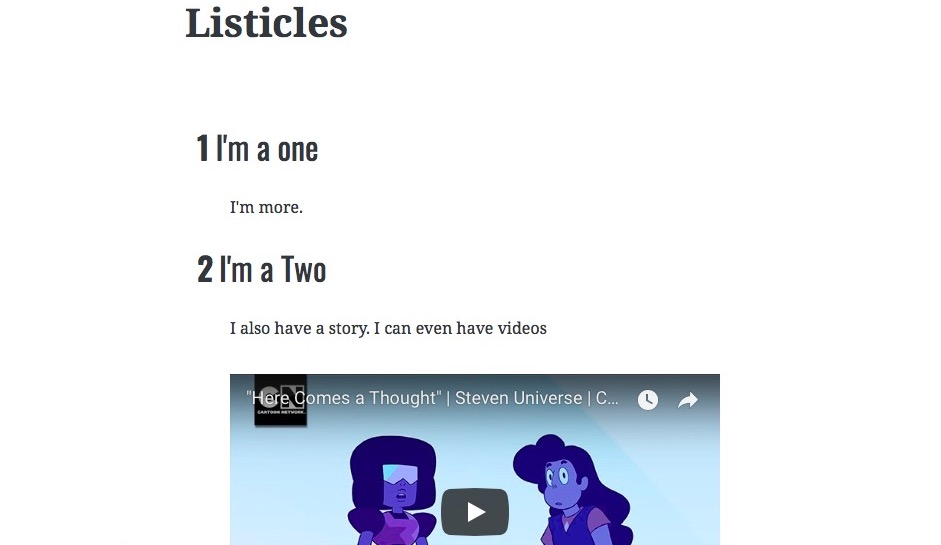
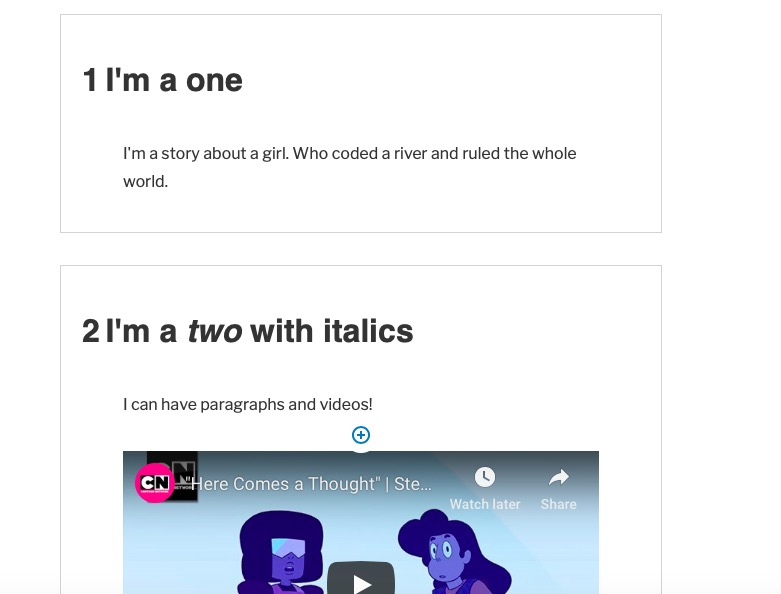
Fixing my stupid.

diff --git a/dist/blocks.build.js b/dist/blocks.build.js
@@ -1,1 +1,1 @@
-!function(e){function t(r){if(n[r])return n[r].exports;var i=n[r]={i:r,l:!1,exports:{}};return e[r].call(i.exports,i,i.exports,t),i.l=!0,i.exports}var n={};t.m=e,t.c=n,t.d=function(e,n,r){t.o(e,n)||Object.defineProperty(e,n,{configurable:!1,enumerable:!0,get:r})},t.n=function(e){var n=e&&e.__esModule?function(){return e.default}:function(){return e};return t.d(n,"a",n),n},t.o=function(e,t){return Object.prototype.hasOwnProperty.call(e,t)},t.p="",t(t.s=1)}([function(e,t,n){var r=n(16),i=r.Symbol;e.exports=i},function(e,t,n){"use strict";Object.defineProperty(t,"__esModule",{value:!0});var r=(n(2),n(24)),i=(n.n(r),n(25)),l=(n.n(i),n(26));n.n(l)},function(e,t,n){"use strict";var r=n(3),i=(n.n(r),n(4)),l=n.n(i),o=n(6),c=n.n(o),a=n(22),s=(n.n(a),n(23)),u=(n.n(s),wp.i18n.__),f=wp.element.Fragment,p=wp.blocks,m=p.createBlock,d=p.registerBlockType,v=wp.editor,y=v.InnerBlocks,b=v.InspectorControls,w=wp.components,h=w.PanelBody,g=w.ToggleControl,x=(w.RangeControl,w.IconButton),k=wp.data.dispatch,E=l()(function(e){return c()(e,function(){return["lez-library/listitem"]})});d("lez-library/listicles",{title:"Listicle",icon:"excerpt-view",category:"lezwatchtv",attributes:{items:{type:"number",default:2},reversed:{type:"boolean",default:!1}},description:u("A block for listicles. You can add items, remove them, and flip them in reverse.","listicles"),edit:function(e){var t=(e.attributes.placeholder,e.className),n=e.setAttributes,r=e.clientId,i=e.attributes,l=i.items,o=i.reversed,c="",a="0";o&&(c="reversed",a=parseInt(""+l)+1);var s=function(){n({items:parseInt(""+l)+1});var e=m("lez-library/listitem");k("core/editor").insertBlock(e,l,r)};return wp.element.createElement(f,null,wp.element.createElement(b,null,wp.element.createElement(h,{title:u("Listicle Settings","listicles")},wp.element.createElement(g,{label:"Reversed",help:function(e){return e?u("Reversed order (10 - 1)","listicles"):u("Numerical order (1 - 10)","listicles")},checked:e.attributes.reversed,onChange:function(){return e.setAttributes({reversed:!e.attributes.reversed})}}))),wp.element.createElement("dl",{className:t+" "+c+" listicle items-"+l,style:{counterReset:"listicle-counter "+a}},wp.element.createElement(y,{template:E(l),allowedBlocks:[["lez-library/listitem"]],defaultBlock:"lez-library/listitem",templateLock:"insert"}),wp.element.createElement("div",{className:"listicles-buttons"},wp.element.createElement(x,{icon:"insert",onClick:s,className:"editor-inserter__toggle"},"Add Item"),wp.element.createElement(x,{icon:"controls-repeat",onClick:function(){return n({reversed:!o})},className:"editor-inserter__toggle"},"Toggle Order"))))},save:function(e){var t=e.attributes.className,n=e.attributes,r=n.items,i=n.reversed,l="",o=0;return i&&(l="reversed",o=parseInt(""+r)+1),wp.element.createElement("dl",{className:t+" "+l+" listicle items-"+r,style:{counterReset:"listicle-counter "+o}},wp.element.createElement(y.Content,null))}})},function(e,t,n){var r,i;!function(){"use strict";function n(){for(var e=[],t=0;t<arguments.length;t++){var r=arguments[t];if(r){var i=typeof r;if("string"===i||"number"===i)e.push(r);else if(Array.isArray(r))e.push(n.apply(null,r));else if("object"===i)for(var o in r)l.call(r,o)&&r[o]&&e.push(o)}}return e.join(" ")}var l={}.hasOwnProperty;"undefined"!==typeof e&&e.exports?e.exports=n:(r=[],void 0!==(i=function(){return n}.apply(t,r))&&(e.exports=i))}()},function(e,t,n){(function(t){e.exports=function(e,n){function r(){var t,n,r=l,a=arguments.length;e:for(;r;){if(r.args.length===arguments.length){for(n=0;n<a;n++)if(r.args[n]!==arguments[n]){r=r.next;continue e}return r!==l&&(r===o&&(o=r.prev),r.prev.next=r.next,r.next&&(r.next.prev=r.prev),r.next=l,r.prev=null,l.prev=r,l=r),r.val}r=r.next}for(t=new Array(a),n=0;n<a;n++)t[n]=arguments[n];return r={args:t,val:e.apply(null,t)},l?(l.prev=r,r.next=l):o=r,c===i?(o=o.prev,o.next=null):c++,l=r,r.val}var i,l,o,c=0;return n&&n.maxSize&&(i=n.maxSize),r.clear=function(){l=null,o=null,c=0},"test"===t.env.NODE_ENV&&(r.getCache=function(){return[l,o,c]}),r}}).call(t,n(5))},function(e,t){function n(){throw new Error("setTimeout has not been defined")}function r(){throw new Error("clearTimeout has not been defined")}function i(e){if(u===setTimeout)return setTimeout(e,0);if((u===n||!u)&&setTimeout)return u=setTimeout,setTimeout(e,0);try{return u(e,0)}catch(t){try{return u.call(null,e,0)}catch(t){return u.call(this,e,0)}}}function l(e){if(f===clearTimeout)return clearTimeout(e);if((f===r||!f)&&clearTimeout)return f=clearTimeout,clearTimeout(e);try{return f(e)}catch(t){try{return f.call(null,e)}catch(t){return f.call(this,e)}}}function o(){v&&m&&(v=!1,m.length?d=m.concat(d):y=-1,d.length&&c())}function c(){if(!v){var e=i(o);v=!0;for(var t=d.length;t;){for(m=d,d=[];++y<t;)m&&m[y].run();y=-1,t=d.length}m=null,v=!1,l(e)}}function a(e,t){this.fun=e,this.array=t}function s(){}var u,f,p=e.exports={};!function(){try{u="function"===typeof setTimeout?setTimeout:n}catch(e){u=n}try{f="function"===typeof clearTimeout?clearTimeout:r}catch(e){f=r}}();var m,d=[],v=!1,y=-1;p.nextTick=function(e){var t=new Array(arguments.length-1);if(arguments.length>1)for(var n=1;n<arguments.length;n++)t[n-1]=arguments[n];d.push(new a(e,t)),1!==d.length||v||i(c)},a.prototype.run=function(){this.fun.apply(null,this.array)},p.title="browser",p.browser=!0,p.env={},p.argv=[],p.version="",p.versions={},p.on=s,p.addListener=s,p.once=s,p.off=s,p.removeListener=s,p.removeAllListeners=s,p.emit=s,p.prependListener=s,p.prependOnceListener=s,p.listeners=function(e){return[]},p.binding=function(e){throw new Error("process.binding is not supported")},p.cwd=function(){return"/"},p.chdir=function(e){throw new Error("process.chdir is not supported")},p.umask=function(){return 0}},function(e,t,n){function r(e,t){if((e=o(e))<1||e>c)return[];var n=a,r=s(e,a);t=l(t),e-=a;for(var u=i(r,t);++n<e;)t(n);return u}var i=n(7),l=n(8),o=n(10),c=9007199254740991,a=4294967295,s=Math.min;e.exports=r},function(e,t){function n(e,t){for(var n=-1,r=Array(e);++n<e;)r[n]=t(n);return r}e.exports=n},function(e,t,n){function r(e){return"function"==typeof e?e:i}var i=n(9);e.exports=r},function(e,t){function n(e){return e}e.exports=n},function(e,t,n){function r(e){var t=i(e),n=t%1;return t===t?n?t-n:t:0}var i=n(11);e.exports=r},function(e,t,n){function r(e){if(!e)return 0===e?e:0;if((e=i(e))===l||e===-l){return(e<0?-1:1)*o}return e===e?e:0}var i=n(12),l=1/0,o=1.7976931348623157e308;e.exports=r},function(e,t,n){function r(e){if("number"==typeof e)return e;if(l(e))return o;if(i(e)){var t="function"==typeof e.valueOf?e.valueOf():e;e=i(t)?t+"":t}if("string"!=typeof e)return 0===e?e:+e;e=e.replace(c,"");var n=s.test(e);return n||u.test(e)?f(e.slice(2),n?2:8):a.test(e)?o:+e}var i=n(13),l=n(14),o=NaN,c=/^\s+|\s+$/g,a=/^[-+]0x[0-9a-f]+$/i,s=/^0b[01]+$/i,u=/^0o[0-7]+$/i,f=parseInt;e.exports=r},function(e,t){function n(e){var t=typeof e;return null!=e&&("object"==t||"function"==t)}e.exports=n},function(e,t,n){function r(e){return"symbol"==typeof e||l(e)&&i(e)==o}var i=n(15),l=n(21),o="[object Symbol]";e.exports=r},function(e,t,n){function r(e){return null==e?void 0===e?a:c:s&&s in Object(e)?l(e):o(e)}var i=n(0),l=n(19),o=n(20),c="[object Null]",a="[object Undefined]",s=i?i.toStringTag:void 0;e.exports=r},function(e,t,n){var r=n(17),i="object"==typeof self&&self&&self.Object===Object&&self,l=r||i||Function("return this")();e.exports=l},function(e,t,n){(function(t){var n="object"==typeof t&&t&&t.Object===Object&&t;e.exports=n}).call(t,n(18))},function(e,t){var n;n=function(){return this}();try{n=n||Function("return this")()||(0,eval)("this")}catch(e){"object"===typeof window&&(n=window)}e.exports=n},function(e,t,n){function r(e){var t=o.call(e,a),n=e[a];try{e[a]=void 0;var r=!0}catch(e){}var i=c.call(e);return r&&(t?e[a]=n:delete e[a]),i}var i=n(0),l=Object.prototype,o=l.hasOwnProperty,c=l.toString,a=i?i.toStringTag:void 0;e.exports=r},function(e,t){function n(e){return i.call(e)}var r=Object.prototype,i=r.toString;e.exports=n},function(e,t){function n(e){return null!=e&&"object"==typeof e}e.exports=n},function(e,t){},function(e,t){},function(e,t){var n=(wp.i18n.__,wp.editor.InnerBlocks),r=wp.blocks.registerBlockType,i=wp.element.Fragment;r("lez-library/listitem",{title:"List Item",parent:["lez-library/listicles"],icon:"editor-rtl",category:"lezwatch",description:"An individual list item.",edit:function(e){e.className,e.clientId;return wp.element.createElement(i,null,wp.element.createElement("div",{className:"listicles-innerblocks"},wp.element.createElement(n,{template:[["lez-library/listdt"],["lez-library/listdd"]],allowedBlocks:[["lez-library/listdt"],["lez-library/listdd"]],templateLock:"all"})))},save:function(e){e.attributes.className;return wp.element.createElement(n.Content,null)}})},function(e,t){var n=(wp.i18n.__,wp.editor),r=(n.InnerBlocks,n.RichText),i=wp.blocks.registerBlockType,l=wp.element.Fragment;i("lez-library/listdt",{title:"Listicle Item Title",parent:["lez-library/listitem"],icon:"migrate",category:"lezwatch",attributes:{content:{type:"array",source:"children",selector:"dt",default:"Title"},placeholder:{type:"string",default:"Title"}},description:"An individual list item title.",edit:function(e){var t=e.attributes,n=e.setAttributes,i=(e.isSelected,e.className),o=t.content;return wp.element.createElement(l,null,wp.element.createElement(r,{tagName:"dt",className:i,value:o,formattingControls:["italic","strikethrough","bold","link"],onChange:function(e){return n({content:e})}}))},save:function(e){var t=e.attributes,n=e.className,i=t.content;return wp.element.createElement(r.Content,{tagName:"dt",className:n,value:i})}})},function(e,t){var n=(wp.i18n.__,wp.editor.InnerBlocks),r=wp.blocks.registerBlockType,i=wp.element.Fragment;r("lez-library/listdd",{title:"List Item Content",parent:["lez-library/listitem"],icon:"migrate",category:"lezwatch",description:"A list item description (aka content).",edit:function(e){var t=e.className;return wp.element.createElement(i,null,wp.element.createElement("dd",{className:t},wp.element.createElement(n,{templateLock:!1})))},save:function(e){var t=e.attributes.className;return wp.element.createElement("dd",{className:t},wp.element.createElement(n.Content,null))}})}]);
+!function(e){function t(r){if(n[r])return n[r].exports;var i=n[r]={i:r,l:!1,exports:{}};return e[r].call(i.exports,i,i.exports,t),i.l=!0,i.exports}var n={};t.m=e,t.c=n,t.d=function(e,n,r){t.o(e,n)||Object.defineProperty(e,n,{configurable:!1,enumerable:!0,get:r})},t.n=function(e){var n=e&&e.__esModule?function(){return e.default}:function(){return e};return t.d(n,"a",n),n},t.o=function(e,t){return Object.prototype.hasOwnProperty.call(e,t)},t.p="",t(t.s=1)}([function(e,t,n){var r=n(16),i=r.Symbol;e.exports=i},function(e,t,n){"use strict";Object.defineProperty(t,"__esModule",{value:!0});var r=(n(2),n(24)),i=(n.n(r),n(25)),l=(n.n(i),n(26));n.n(l)},function(e,t,n){"use strict";var r=n(3),i=(n.n(r),n(4)),l=n.n(i),o=n(6),c=n.n(o),s=n(22),a=(n.n(s),n(23)),u=(n.n(a),wp.i18n.__),f=wp.element.Fragment,p=wp.blocks,m=p.createBlock,d=p.registerBlockType,v=wp.editor,y=v.InnerBlocks,b=v.InspectorControls,w=wp.components,g=w.PanelBody,h=w.ToggleControl,x=(w.RangeControl,w.IconButton),k=wp.data.dispatch,E=l()(function(e){return c()(e,function(){return["lez-library/listitem"]})});d("lez-library/listicles",{title:u("Listicle","listicles"),icon:"excerpt-view",category:"layout",attributes:{items:{type:"number",default:2},reversed:{type:"boolean",default:!1}},description:u("A block for listicles. You can add items, remove them, and flip them in reverse.","listicles"),edit:function(e){var t=(e.attributes.placeholder,e.className),n=e.setAttributes,r=e.clientId,i=e.attributes,l=i.items,o=i.reversed,c="",s="0";o&&(c="reversed",s=parseInt(""+l)+1);var a=function(){n({items:parseInt(""+l)+1});var e=m("lez-library/listitem");k("core/editor").insertBlock(e,l,r)};return wp.element.createElement(f,null,wp.element.createElement(b,null,wp.element.createElement(g,{title:u("Listicle Settings","listicles")},wp.element.createElement(h,{label:"Reversed",help:function(e){return e?u("Reversed order (10 - 1)","listicles"):u("Numerical order (1 - 10)","listicles")},checked:e.attributes.reversed,onChange:function(){return e.setAttributes({reversed:!e.attributes.reversed})}}))),wp.element.createElement("dl",{className:t+" "+c+" listicle items-"+l,style:{counterReset:"listicle-counter "+s}},wp.element.createElement(y,{template:E(l),allowedBlocks:[["lez-library/listitem"]],defaultBlock:"lez-library/listitem",templateLock:"insert"}),wp.element.createElement("div",{className:"listicles-buttons"},wp.element.createElement(x,{icon:"insert",onClick:a,className:"editor-inserter__toggle"},"Add Item"),wp.element.createElement(x,{icon:"controls-repeat",onClick:function(){return n({reversed:!o})},className:"editor-inserter__toggle"},"Toggle Order"))))},save:function(e){var t=e.attributes.className,n=e.attributes,r=n.items,i=n.reversed,l="",o=0;return i&&(l="reversed",o=parseInt(""+r)+1),wp.element.createElement("dl",{className:t+" "+l+" listicle items-"+r,style:{counterReset:"listicle-counter "+o}},wp.element.createElement(y.Content,null))}})},function(e,t,n){var r,i;!function(){"use strict";function n(){for(var e=[],t=0;t<arguments.length;t++){var r=arguments[t];if(r){var i=typeof r;if("string"===i||"number"===i)e.push(r);else if(Array.isArray(r))e.push(n.apply(null,r));else if("object"===i)for(var o in r)l.call(r,o)&&r[o]&&e.push(o)}}return e.join(" ")}var l={}.hasOwnProperty;"undefined"!==typeof e&&e.exports?e.exports=n:(r=[],void 0!==(i=function(){return n}.apply(t,r))&&(e.exports=i))}()},function(e,t,n){(function(t){e.exports=function(e,n){function r(){var t,n,r=l,s=arguments.length;e:for(;r;){if(r.args.length===arguments.length){for(n=0;n<s;n++)if(r.args[n]!==arguments[n]){r=r.next;continue e}return r!==l&&(r===o&&(o=r.prev),r.prev.next=r.next,r.next&&(r.next.prev=r.prev),r.next=l,r.prev=null,l.prev=r,l=r),r.val}r=r.next}for(t=new Array(s),n=0;n<s;n++)t[n]=arguments[n];return r={args:t,val:e.apply(null,t)},l?(l.prev=r,r.next=l):o=r,c===i?(o=o.prev,o.next=null):c++,l=r,r.val}var i,l,o,c=0;return n&&n.maxSize&&(i=n.maxSize),r.clear=function(){l=null,o=null,c=0},"test"===t.env.NODE_ENV&&(r.getCache=function(){return[l,o,c]}),r}}).call(t,n(5))},function(e,t){function n(){throw new Error("setTimeout has not been defined")}function r(){throw new Error("clearTimeout has not been defined")}function i(e){if(u===setTimeout)return setTimeout(e,0);if((u===n||!u)&&setTimeout)return u=setTimeout,setTimeout(e,0);try{return u(e,0)}catch(t){try{return u.call(null,e,0)}catch(t){return u.call(this,e,0)}}}function l(e){if(f===clearTimeout)return clearTimeout(e);if((f===r||!f)&&clearTimeout)return f=clearTimeout,clearTimeout(e);try{return f(e)}catch(t){try{return f.call(null,e)}catch(t){return f.call(this,e)}}}function o(){v&&m&&(v=!1,m.length?d=m.concat(d):y=-1,d.length&&c())}function c(){if(!v){var e=i(o);v=!0;for(var t=d.length;t;){for(m=d,d=[];++y<t;)m&&m[y].run();y=-1,t=d.length}m=null,v=!1,l(e)}}function s(e,t){this.fun=e,this.array=t}function a(){}var u,f,p=e.exports={};!function(){try{u="function"===typeof setTimeout?setTimeout:n}catch(e){u=n}try{f="function"===typeof clearTimeout?clearTimeout:r}catch(e){f=r}}();var m,d=[],v=!1,y=-1;p.nextTick=function(e){var t=new Array(arguments.length-1);if(arguments.length>1)for(var n=1;n<arguments.length;n++)t[n-1]=arguments[n];d.push(new s(e,t)),1!==d.length||v||i(c)},s.prototype.run=function(){this.fun.apply(null,this.array)},p.title="browser",p.browser=!0,p.env={},p.argv=[],p.version="",p.versions={},p.on=a,p.addListener=a,p.once=a,p.off=a,p.removeListener=a,p.removeAllListeners=a,p.emit=a,p.prependListener=a,p.prependOnceListener=a,p.listeners=function(e){return[]},p.binding=function(e){throw new Error("process.binding is not supported")},p.cwd=function(){return"/"},p.chdir=function(e){throw new Error("process.chdir is not supported")},p.umask=function(){return 0}},function(e,t,n){function r(e,t){if((e=o(e))<1||e>c)return[];var n=s,r=a(e,s);t=l(t),e-=s;for(var u=i(r,t);++n<e;)t(n);return u}var i=n(7),l=n(8),o=n(10),c=9007199254740991,s=4294967295,a=Math.min;e.exports=r},function(e,t){function n(e,t){for(var n=-1,r=Array(e);++n<e;)r[n]=t(n);return r}e.exports=n},function(e,t,n){function r(e){return"function"==typeof e?e:i}var i=n(9);e.exports=r},function(e,t){function n(e){return e}e.exports=n},function(e,t,n){function r(e){var t=i(e),n=t%1;return t===t?n?t-n:t:0}var i=n(11);e.exports=r},function(e,t,n){function r(e){if(!e)return 0===e?e:0;if((e=i(e))===l||e===-l){return(e<0?-1:1)*o}return e===e?e:0}var i=n(12),l=1/0,o=1.7976931348623157e308;e.exports=r},function(e,t,n){function r(e){if("number"==typeof e)return e;if(l(e))return o;if(i(e)){var t="function"==typeof e.valueOf?e.valueOf():e;e=i(t)?t+"":t}if("string"!=typeof e)return 0===e?e:+e;e=e.replace(c,"");var n=a.test(e);return n||u.test(e)?f(e.slice(2),n?2:8):s.test(e)?o:+e}var i=n(13),l=n(14),o=NaN,c=/^\s+|\s+$/g,s=/^[-+]0x[0-9a-f]+$/i,a=/^0b[01]+$/i,u=/^0o[0-7]+$/i,f=parseInt;e.exports=r},function(e,t){function n(e){var t=typeof e;return null!=e&&("object"==t||"function"==t)}e.exports=n},function(e,t,n){function r(e){return"symbol"==typeof e||l(e)&&i(e)==o}var i=n(15),l=n(21),o="[object Symbol]";e.exports=r},function(e,t,n){function r(e){return null==e?void 0===e?s:c:a&&a in Object(e)?l(e):o(e)}var i=n(0),l=n(19),o=n(20),c="[object Null]",s="[object Undefined]",a=i?i.toStringTag:void 0;e.exports=r},function(e,t,n){var r=n(17),i="object"==typeof self&&self&&self.Object===Object&&self,l=r||i||Function("return this")();e.exports=l},function(e,t,n){(function(t){var n="object"==typeof t&&t&&t.Object===Object&&t;e.exports=n}).call(t,n(18))},function(e,t){var n;n=function(){return this}();try{n=n||Function("return this")()||(0,eval)("this")}catch(e){"object"===typeof window&&(n=window)}e.exports=n},function(e,t,n){function r(e){var t=o.call(e,s),n=e[s];try{e[s]=void 0;var r=!0}catch(e){}var i=c.call(e);return r&&(t?e[s]=n:delete e[s]),i}var i=n(0),l=Object.prototype,o=l.hasOwnProperty,c=l.toString,s=i?i.toStringTag:void 0;e.exports=r},function(e,t){function n(e){return i.call(e)}var r=Object.prototype,i=r.toString;e.exports=n},function(e,t){function n(e){return null!=e&&"object"==typeof e}e.exports=n},function(e,t){},function(e,t){},function(e,t){var n=wp.i18n.__,r=wp.editor.InnerBlocks,i=wp.blocks.registerBlockType,l=wp.element.Fragment;i("lez-library/listitem",{title:n("List Item","listicles"),parent:["lez-library/listicles"],icon:"editor-rtl",category:"layout",description:n("An individual list item.","listicles"),edit:function(e){e.className,e.clientId;return wp.element.createElement(l,null,wp.element.createElement("div",{className:"listicles-innerblocks"},wp.element.createElement(r,{template:[["lez-library/listdt"],["lez-library/listdd"]],allowedBlocks:[["lez-library/listdt"],["lez-library/listdd"]],templateLock:"all"})))},save:function(e){e.attributes.className;return wp.element.createElement(r.Content,null)}})},function(e,t){var n=wp.i18n.__,r=wp.editor,i=(r.InnerBlocks,r.RichText),l=wp.blocks.registerBlockType,o=wp.element.Fragment;l("lez-library/listdt",{title:n("Listicle Item Title","listicles"),parent:["lez-library/listitem"],icon:"migrate",category:"layout",attributes:{content:{type:"array",source:"children",selector:"dt",default:n("Title","listicles")},placeholder:{type:"string",default:n("Title","listicles")}},description:n("An individual list item title.","listicles"),edit:function(e){var t=e.attributes,n=e.setAttributes,r=(e.isSelected,e.className),l=t.content;return wp.element.createElement(o,null,wp.element.createElement(i,{tagName:"dt",className:r,value:l,formattingControls:["italic","strikethrough","bold","link"],onChange:function(e){return n({content:e})}}))},save:function(e){var t=e.attributes,n=e.className,r=t.content;return wp.element.createElement(i.Content,{tagName:"dt",className:n,value:r})}})},function(e,t){var n=wp.i18n.__,r=wp.editor.InnerBlocks,i=wp.blocks.registerBlockType,l=wp.element.Fragment;i("lez-library/listdd",{title:n("List Item Content","listicles"),parent:["lez-library/listitem"],icon:"migrate",category:"layout",description:n("A list item description (aka content).","listicles"),edit:function(e){var t=e.className;return wp.element.createElement(l,null,wp.element.createElement("dd",{className:t},wp.element.createElement(r,{templateLock:!1})))},save:function(e){var t=e.attributes.className;return wp.element.createElement("dd",{className:t},wp.element.createElement(r.Content,null))}})}]);

diff --git a/src/block/listitem.js b/src/block/listitem.js
@@ -8,12 +8,12 @@ const { Fragment } = wp.element;
 
 registerBlockType( 'lez-library/listitem', {
 
-	title: 'List Item',
+	title: __( 'List Item', 'listicles' ),
 	parent: [ 'lez-library/listicles' ],
 	icon: 'editor-rtl',
-	category: 'lezwatch',
+	category: 'layout',
 
-	description: 'An individual list item.',
+	description: __( 'An individual list item.', 'listicles' ),
 
 	edit: function( props ) {
 		const { className, clientId } = props;

diff --git a/dist/blocks.style.build.css b/dist/blocks.style.build.css
@@ -1,1 +1,1 @@
-hr.wp-block-separator{counter-reset:listicle-counter}
+hr.wp-block-separator{counter-reset:listicle-counter}.wp-block-lez-library-listicles{margin:4px;counter-reset:listicle-counter}.wp-block-lez-library-listicles dt:before{content:counter(listicle-counter);counter-increment:listicle-counter;margin-right:6px}.wp-block-lez-library-listicles.reversed dt:before{counter-increment:listicle-counter -1}

diff --git a/src/block/style.scss b/src/block/style.scss
@@ -7,3 +7,16 @@
 hr.wp-block-separator {
   counter-reset: listicle-counter;
 }
+
+.wp-block-lez-library-listicles {
+    margin: 4px;
+    counter-reset: listicle-counter;
+    & dt:before {
+      content: counter(listicle-counter);
+      counter-increment: listicle-counter;
+      margin-right: 6px;
+    }
+    &.reversed  dt:before {
+      counter-increment: listicle-counter -1;
+    }
+}

diff --git a/src/block/listdd.js b/src/block/listdd.js
@@ -11,7 +11,7 @@ registerBlockType( 'lez-library/listdd', {
 	title: __( 'List Item Content', 'listicles' ),
 	parent: [ 'lez-library/listitem' ],
 	icon: 'migrate',
-	category: 'lezwatch',
+	category: 'layout',
 	description: __( 'A list item description (aka content).', 'listicles' ),
 
 	edit: function( props ) {

diff --git a/src/block/listdt.js b/src/block/listdt.js
@@ -13,7 +13,7 @@ registerBlockType( 'lez-library/listdt', {
 	title: __( 'Listicle Item Title', 'listicles' ),
 	parent: [ 'lez-library/listitem' ],
 	icon: 'migrate',
-	category: 'lezwatch',
+	category: 'layout',
 	attributes: {
 		content: {
 			type: 'array',

diff --git a/src/block/listicle.js b/src/block/listicle.js
@@ -32,7 +32,7 @@ registerBlockType( 'lez-library/listicles', {
 
 	title: __( 'Listicle', 'listicles' ),
 	icon: 'excerpt-view',
-	category: 'lezwatchtv',
+	category: 'layout',
 	attributes: {
 		items: {
 			type: 'number',

diff --git a/src/init.php b/src/init.php
@@ -24,7 +24,7 @@ function listicles_cgb_block_assets() {
 	wp_enqueue_style(
 		'listicles',
 		plugins_url( 'dist/blocks.style.build.css', dirname( __FILE__ ) ),
-		array( 'wp-blocks' ),
+		array(),
 		filemtime( plugin_dir_path( __DIR__ ) . 'dist/blocks.style.build.css' )
 	);
 }
